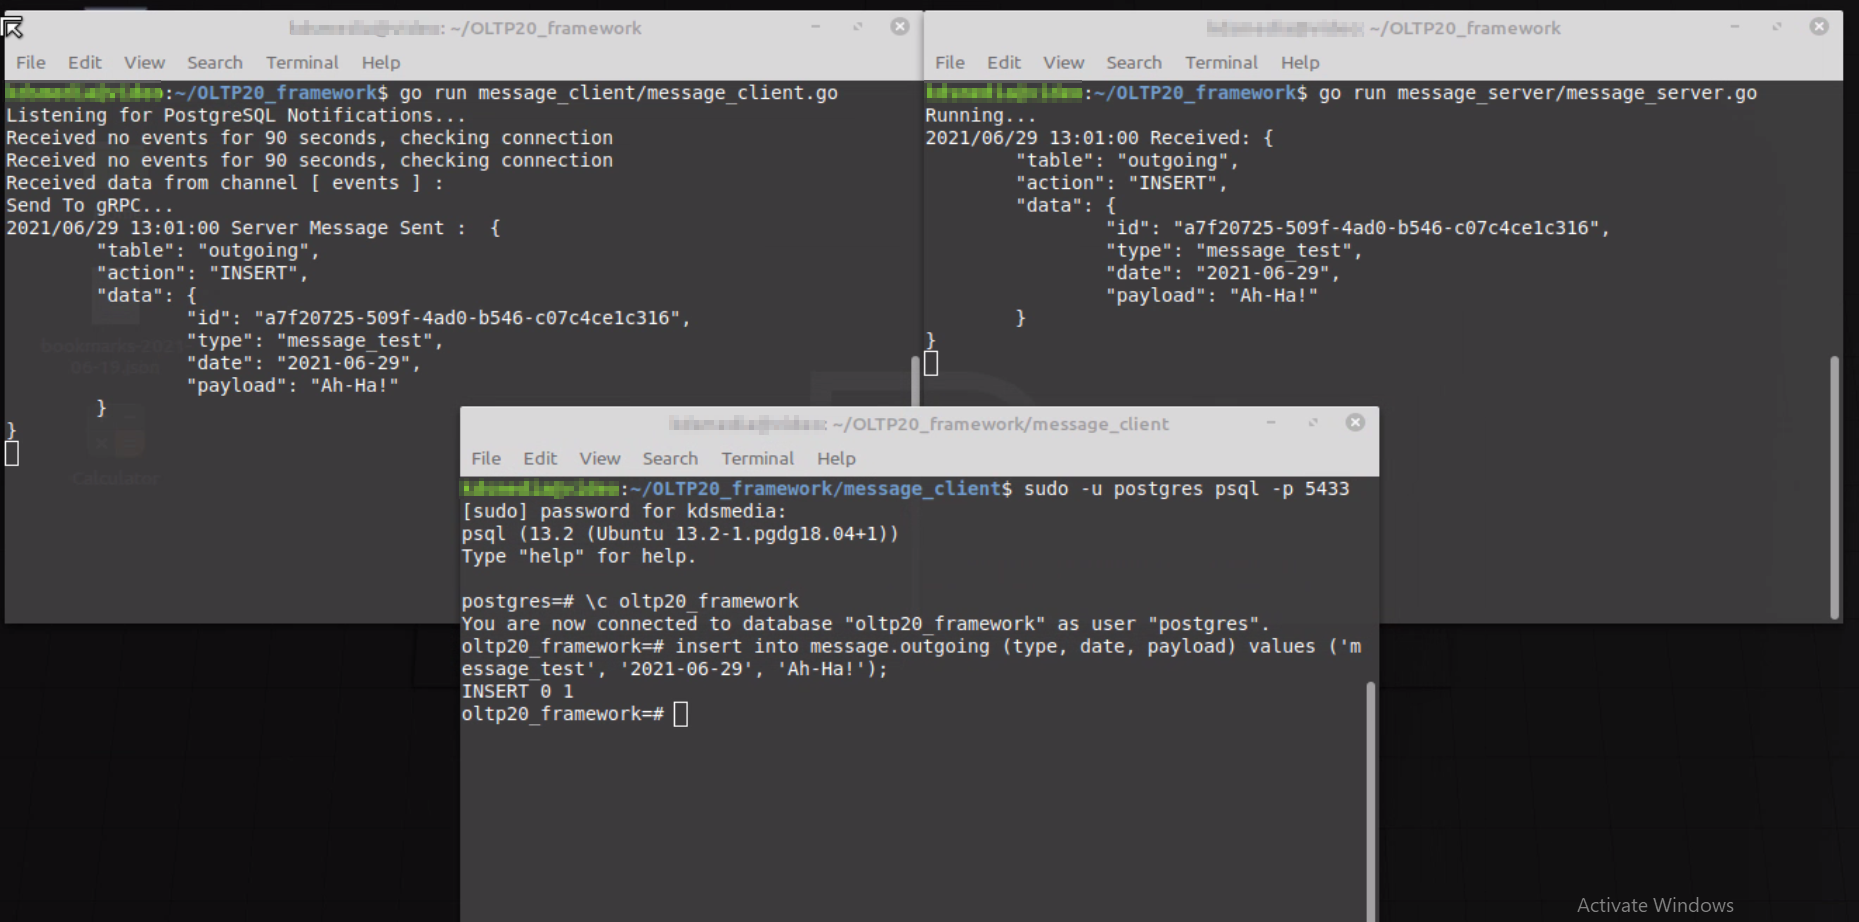
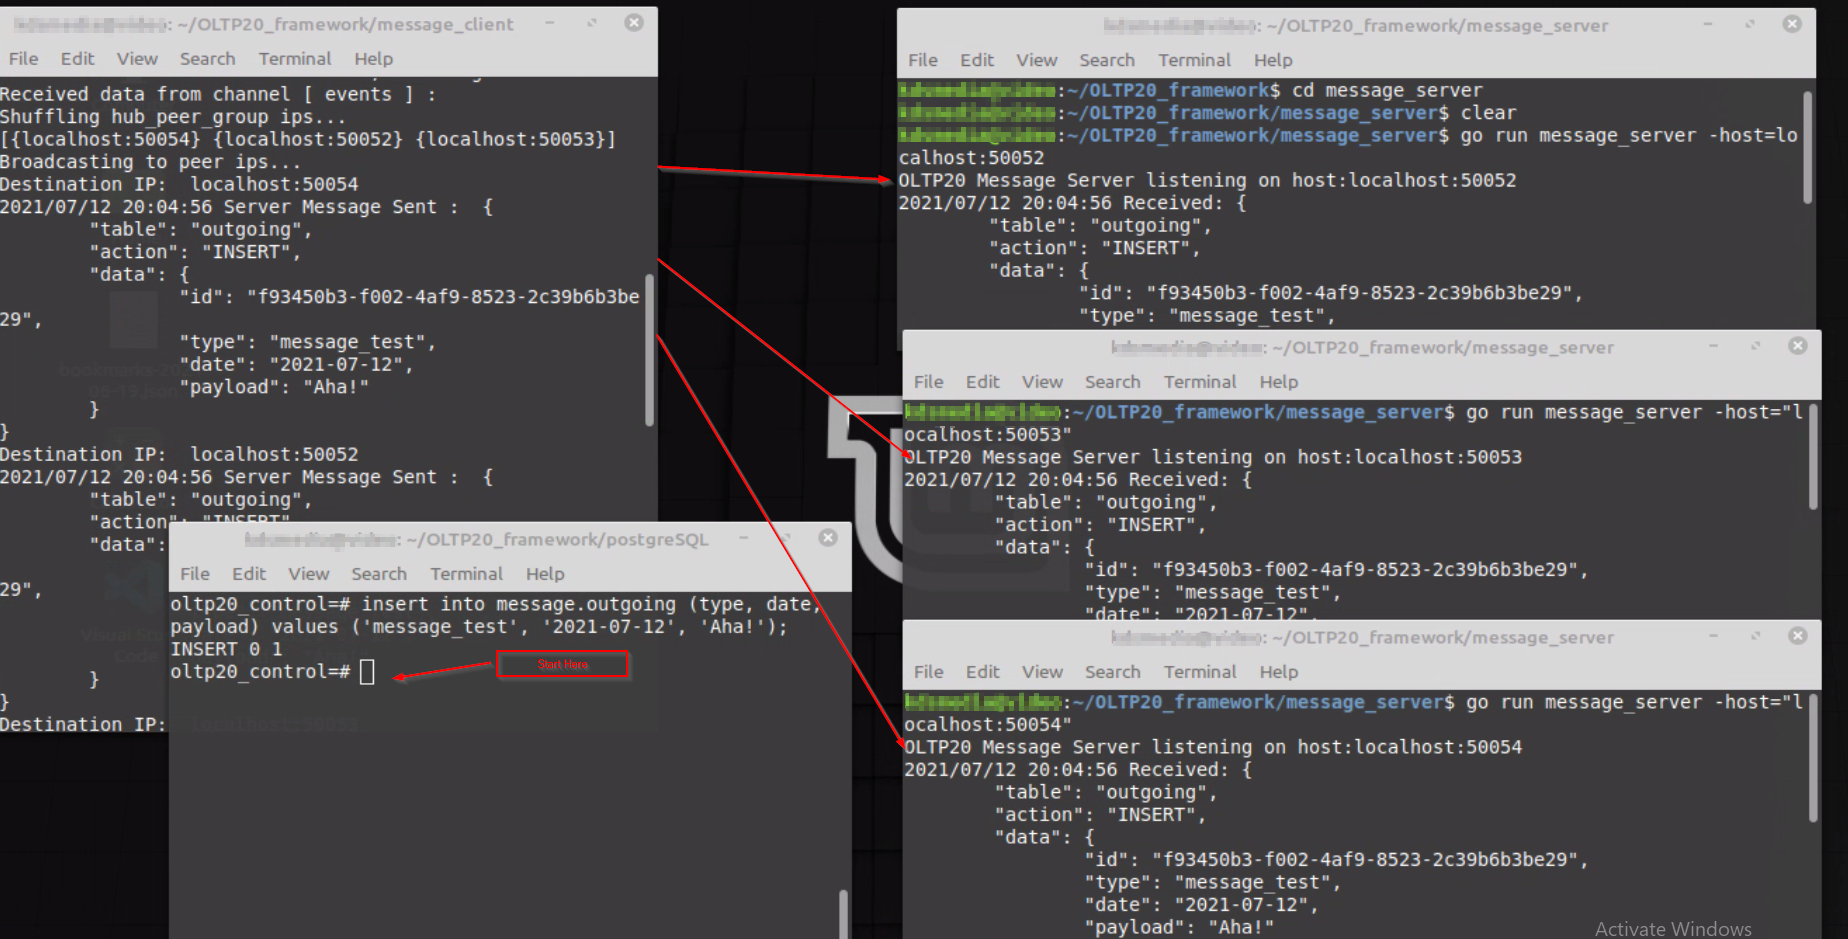
update 20210712 8:34

diff --git a/message_client/message_client.go b/message_client/message_client.go
@@ -6,6 +6,7 @@ import (
 	"encoding/json"
 	"fmt"
 	"log"
+	"math/rand"
 	"os"
 	"time"
 
@@ -15,15 +16,16 @@ import (
 	pb "google.golang.org/grpc/examples/helloworld/helloworld"
 )
 
-const (
-	address = "localhost:50051"
-)
+type Data struct{ IP string } //structure for mapping table to slice
+var hub_peer_group []Data     //create a hub_peer_group slice
+var connection_string string
 
 func waitForNotification(l *pq.Listener) {
 	for {
 		select {
 		case n := <-l.Notify:
 			fmt.Println("Received data from channel [", n.Channel, "] :")
+
 			// Prepare notification payload
 			var foo bytes.Buffer
 			err := json.Indent(&foo, []byte(n.Extra), "", "\t")
@@ -31,8 +33,18 @@ func waitForNotification(l *pq.Listener) {
 				fmt.Println("Error processing JSON: ", err)
 				return
 			}
-			fmt.Println("Send To gRPC...")
-			grpc_connect(foo.String())
+
+			fmt.Println("Shuffling hub_peer_group ips...")
+			//shuffle hub_peer_group ips
+			ip_shuffle()
+
+			fmt.Println("Broadcasting to peer ips...")
+			//OLTP20 broadcast to hub_peer_group
+			for _, i := range hub_peer_group {
+				fmt.Println("Destination IP: ", i.IP)
+				grpc_message(foo.String(), i.IP)
+			}
+
 			return
 		case <-time.After(90 * time.Second):
 			fmt.Println("Received no events for 90 seconds, checking connection")
@@ -44,9 +56,8 @@ func waitForNotification(l *pq.Listener) {
 	}
 }
 
-func grpc_connect(message string) {
-	// Set up a connection to the server.
-	conn, err := grpc.Dial(address, grpc.WithInsecure(), grpc.WithBlock())
+func grpc_message(message string, ip_address string) {
+	conn, err := grpc.Dial(ip_address, grpc.WithInsecure(), grpc.WithBlock())
 	if err != nil {
 		log.Fatalf("did not connect: %v", err)
 	}
@@ -64,7 +75,19 @@ func grpc_connect(message string) {
 	log.Printf("Server Message Sent : %s", r.GetMessage())
 }
 
-func main() {
+func ip_shuffle() {
+	shuffle := 1 //number of shuffles
+	for i := 1; i <= shuffle; i++ {
+		rand.Seed(time.Now().Unix())
+		rand.Shuffle(len(hub_peer_group), func(i, j int) {
+			hub_peer_group[i], hub_peer_group[j] = hub_peer_group[j], hub_peer_group[i]
+		})
+		fmt.Println(hub_peer_group)
+	}
+	return
+}
+
+func db_connect() {
 
 	type Environment struct {
 		oltp_db     string
@@ -74,21 +97,40 @@ func main() {
 		db_password string
 	}
 
-	var g Environment
+	var g Environment //need to add the following variables to etc/environment file
 	g.oltp_db = os.Getenv("OLTP20DB")
 	g.db_user = os.Getenv("DBUSER")
 	g.db_host = os.Getenv("DBHOST")
-	g.db_port = os.Getenv("DBPORT") //no int hass to be string
+	g.db_port = os.Getenv("DBPORT") //has to be string
 	g.db_password = os.Getenv("DBPASSWORD")
 
-	connection_string := fmt.Sprintf("dbname=%s host=%s user=%s port=%s password=%s", g.oltp_db, g.db_host, g.db_user, g.db_port, g.db_password)
+	connection_string = fmt.Sprintf("dbname=%s host=%s user=%s port=%s password=%s", g.oltp_db, g.db_host, g.db_user, g.db_port, g.db_password)
 	conn, err := pgx.Connect(context.Background(), connection_string)
 
 	if err != nil {
 		fmt.Fprintf(os.Stderr, "Unable to connect to database: %v\n", err)
 		os.Exit(1)
 	}
+
+	rows, _ := conn.Query(context.Background(), "SELECT ip from setup.uf_get_peer_group_ip();")
+	var ip string
+	for rows.Next() {
+		err := rows.Scan(&ip)
+		if err != nil {
+			fmt.Fprintf(os.Stderr, "Unable to connect to database: %v\n", err)
+			os.Exit(1)
+		}
+		hub_peer_group = append(hub_peer_group, Data{ip})
+	}
+
 	defer conn.Close(context.Background())
+
+	return
+}
+
+func main() {
+
+	db_connect()
 
 	reportProblem := func(ev pq.ListenerEventType, err error) {
 		if err != nil {
@@ -96,7 +138,7 @@ func main() {
 		}
 	}
 	listener := pq.NewListener(connection_string, 0*time.Second, time.Minute, reportProblem)
-	err = listener.Listen("events")
+	err := listener.Listen("events")
 	if err != nil {
 		panic(err)
 	}
@@ -104,4 +146,5 @@ func main() {
 	for {
 		waitForNotification(listener)
 	}
+
 }

diff --git a/message_server/message_server.go b/message_server/message_server.go
@@ -24,12 +24,10 @@ import (
 	"log"
 	"net"
 
+	"flag"
+
 	"google.golang.org/grpc"
 	pb "google.golang.org/grpc/examples/helloworld/helloworld"
-)
-
-const (
-	port = ":50051"
 )
 
 // server is used to implement helloworld.GreeterServer.
@@ -45,8 +43,14 @@ func (s *server) SayHello(ctx context.Context, in *pb.HelloRequest) (*pb.HelloRe
 }
 
 func main() {
-	println("Running...")
-	lis, err := net.Listen("tcp", port)
+
+	//get  port number from command line
+	wordPtr := flag.String("host", "localhost:50051", "default host to listen on")
+	flag.Parse()
+	host := *wordPtr
+	println("OLTP20 Message Server listening on host:" + host)
+
+	lis, err := net.Listen("tcp", host)
 	if err != nil {
 		log.Fatalf("failed to listen: %v", err)
 	}

diff --git a/README.md b/README.md
@@ -73,17 +73,29 @@ Next you'll need to create a local postgresql database and schema to store messa
 
 From the postgres command line, run
 
-		postgres=# \i 0001create_oltp20_framework.sql
+		postgres=# \i 0001create_oltp20_database.sql
 
 The above script creates a database called __oltp20_framework__ and connects to it. Next run,
 
-		oltp20_framework=# \i 0002create_outgoing.sql
+		oltp20_control=# \i 0002create_control_table.sql
 
 This script creates the __message.outgoing__ table and adds a trigger called __message_notify_event__ to it. On a message insert to the table, this trigger fires off a notification using postgreSQLs' [LISTEN](https://www.postgresql.org/docs/9.1/sql-listen.html) and [NOTIFY](https://www.postgresql.org/docs/9.1/sql-notify.html) feature.
 
+This script loads test data:
+
+                oltp20_control=# \i 0003load_test_data.sql
+
+Test data loads to the oltp20_control database.  To date schema looks like this:
+
+![image](https://github.com/dkeeshin/OLTP20_framework/blob/development/oltp20_control%2C%20v37-2021-07-12.png)
+
+0003load_test_data.sql script loads test locations and three peer group hosts for testing.  All three peer group IP/host addresses are stored in the oltp20_control database table called setup.hub_peer_group.  They are configured as "localhost:50052", "localhost:50053", and "localhost:50054"--localhost: 50051 is stored in setup.hub_profile.  Setup.hub_route is the join between hub_profile and hub_peer_group.
+
+Note: you would replace "localhost"  with an actual IP address if you want to test connections to remote peer group hosts like a Linux VM in Azure, etc.
+
 To exit out of postgreSQL and return to the linux command line prompt, type:
 
-        oltp20_framework=# \q
+        oltp20_control=# \q
 
 __GO__
 
@@ -93,19 +105,30 @@ Assuming you have GO installed, change to the OLTP20_framework directory and run
 
 This will make sure there is a path to the GO program files.
 
-Next you will need to edit the postgreSQL password and if necessary port number in main.go in the OLTP20_framework/message_client directory. You can use a text editor or Visual Studio code.  
+Next you will need to edit the linux environmental variables that hold the postgreSQL connection string items.  As root, go to this file
 
-![image](https://github.com/dkeeshin/OLTP20_framework/blob/main/message_client/07_client_main_go.png)
+        /etc/environment
 
-Next run the local GO code that "listens" for the notifications from postgreSQL. Change to the OLTP20_framework directory and run:
+        Using a text editor,  enter these values:
+
+        PATH="/usr/local/sbin:/usr/local/bin:/usr/sbin:/usr/bin:/sbin:/bin:/usr/games:/usr/local/games:/usr/local/go/bin"
+        OLTP20DB="oltp20_control"
+        DBHOST="localhost"
+        DBUSER="postgres"
+        DBPORT="5432"
+        DBPASSWORD="password_goes_here"
+
+Next change back to OLTP20_framework/message_client directory and run the local GO code that "listens" for the notifications from postgreSQL. Change to the OLTP20_framework directory and run:
         
-        go run message_client/message_client.go
+        go run message_client.go
 
 ![image](https://github.com/dkeeshin/OLTP20_framework/blob/main/message_client/01_message_client.png)
 
 For a simulated remote connection, create a new terminal window and run:
 
-        go run message_server/message_server.go
+        go run message_server.go -host=localhost:50052
+
+Repeat the above command for 50052 and 50053.
 
 ![image](https://github.com/dkeeshin/OLTP20_framework/blob/main/message_server/02_message_server.png)
 
@@ -113,9 +136,9 @@ For a simulated remote connection, create a new terminal window and run:
 
 Create a third terminal window, start postgreSQL and execute this:
 
-        insert into message.outgoing (type, date, payload) values ('message_test', '2021-06-29', 'Ah-Ha!');
+        insert into message.outgoing (type, date, payload) values ('message_test', '2021-07-12', 'Aha!');
 
-You should now be able to see the inserted data, the data sent as a message from the client, and the message received by the server:
+You should now be able to see the inserted data, the data sent as a message from the client, and the message received by the servers:
 
 ![image](https://github.com/dkeeshin/OLTP20_framework/blob/main/message_server/04_message_sent.png)
 
